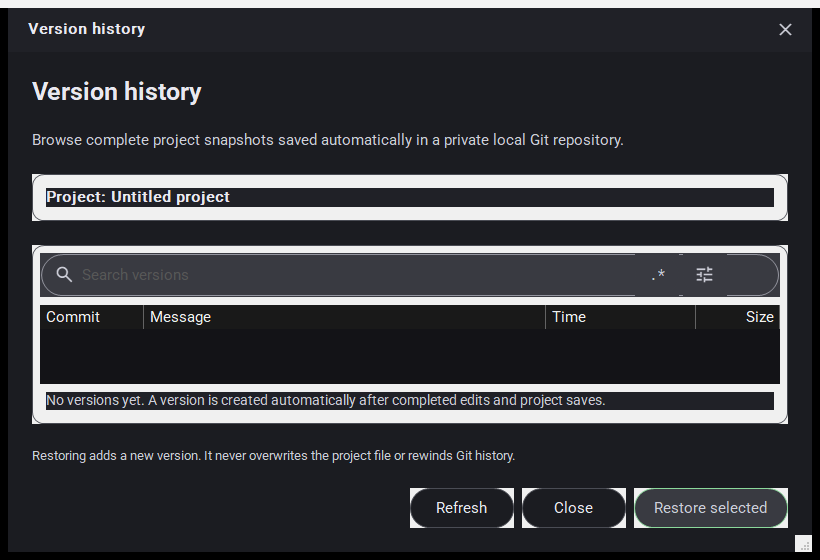
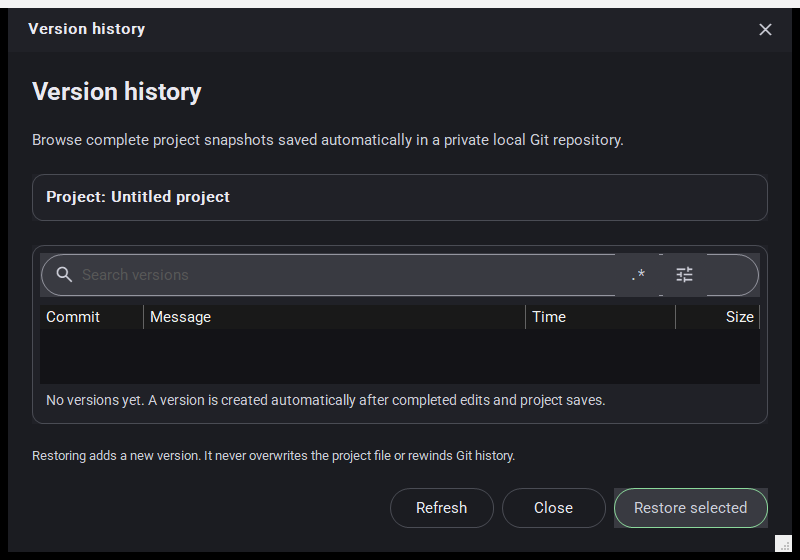
Fix light card plates in dark mode and doubled regex-builder flag labels
Two widget-level defects, both found by pixel-sampling real captures from the
headless harness rather than by reading the code.

1. StaticBox cards rendered a light plate on dark themed surfaces. The labels
   on top were already correct (#202127); the plate under them was #F0F0F0.
   Root cause: StateColor::setColorForStates() only UPDATES a state entry that
   already exists and returns false otherwise, and StaticBox seeds only
   border_color in its constructor. So SetBackgroundColorNormal() was a silent
   no-op on every card that never had an explicit SetBackgroundColor(), and
   doRender() fell through to its count()==0 fallback, filling with the plain
   window colour. That colour is itself stale: Create() seeds it once from the
   parent, which is the light surface for any card built before a theme is
   applied, and the MSW render() path clears its back buffer with it.
   SetBackgroundColorNormal() now inserts the normal-state colour when absent,
   and SyncWindowBackground() keeps the plain window background in step.

2. Every regex-builder flag row drew its text twice: clipped ghost text inside
   the 44px checkbox rect plus the real sibling label. CheckBox is a
   wxBitmapToggleButton, i.e. a native MSW BUTTON, so addFlag()'s SetLabel()
   made Windows paint the window text under the glyph. The text is now carried
   as name + tooltip; the visible label stays the sibling Label.

Both verified live on the rebuilt binary, before/after captures committed.
[…]

diff --git a/src/slic3r/GUI/Widgets/StaticBox.cpp b/src/slic3r/GUI/Widgets/StaticBox.cpp
@@ -216,16 +216,44 @@ void StaticBox::SetBorderColorNormal(wxColor const &color)
     Refresh();
 }
 
+// Keep the plain wxWindow background in step with the themed one. Create()
+// seeds it once from the parent, which is the LIGHT surface for any card built
+// before a theme is applied -- and that stale colour is what actually reaches
+// the screen, because the MSW render() path clears its back buffer with
+// GetBackgroundColour() before doRender() draws, and the erase handler uses it
+// too. Without this sync a themed card shows a light plate in dark mode even
+// though its rounded fill is correct.
+void StaticBox::SyncWindowBackground()
+{
+    if (background_color.count() == 0)
+        return;
+    const wxColour normal = background_color.defaultColor();
+    if (normal.IsOk() && normal != wxWindow::GetBackgroundColour())
+        wxWindow::SetBackgroundColour(normal);
+}
+
 void StaticBox::SetBackgroundColor(StateColor const &color)
 {
     background_color = color;
     state_handler.update_binds();
+    SyncWindowBackground();
     Refresh();
 }
 
 void StaticBox::SetBackgroundColorNormal(wxColor const &color)
 {
-    background_color.setColorForStates(color, 0);
+    // setColorForStates only UPDATES a state entry that already exists -- it
+    // returns false and changes nothing otherwise. A StaticBox starts with an
+    // EMPTY background StateColor (the constructor seeds border_color only), so
+    // for every card that never had an explicit SetBackgroundColor() this call
+    // silently did nothing: doRender then took its `background_color.count()==0`
+    // fallback and filled with the constructor-time window colour, i.e. a light
+    // plate on a dark themed dialog. Insert the normal-state colour instead.
+    if (!background_color.setColorForStates(color, StateColor::Normal)) {
+        background_color = StateColor(color);
+        state_handler.update_binds();
+    }
+    SyncWindowBackground();
     Refresh();
 }
 

diff --git a/src/slic3r/GUI/Widgets/RegexBuilderPopup.cpp b/src/slic3r/GUI/Widgets/RegexBuilderPopup.cpp
@@ -253,8 +253,14 @@ void RegexBuilderPopup::build()
         auto *box = new CheckBox(m_scroll);
         box->SetColorScheme(m_scheme);
         box->SetValue(value);
+        // Name + tooltip carry the text for assistive tech and hover; the
+        // VISIBLE text is the sibling Label below. SetLabel() must not be used
+        // here: CheckBox is a wxBitmapToggleButton, i.e. a native BUTTON, and
+        // MSW paints its window text inside the 44px glyph rect -- which came
+        // out as clipped ghost text ("cx m", "sens") sitting underneath the
+        // real label on every flag row.
         box->SetName(text);
-        box->SetLabel(text);
+        box->SetToolTip(text);
         box->SetMinSize(wxSize(FromDIP(kTargetH), FromDIP(kTargetH)));
         auto *lbl = new Label(m_scroll, Label::Body_13, text);
         lbl->SetBackgroundColour(surface);

diff --git a/src/slic3r/GUI/Widgets/StaticBox.hpp b/src/slic3r/GUI/Widgets/StaticBox.hpp
@@ -46,6 +46,10 @@ public:
 
     void SetBackgroundColor2(StateColor const &color);
 
+    // Re-seed the plain wxWindow background from the themed normal-state colour
+    // (see the definition for why the constructor-time seed goes stale).
+    void SyncWindowBackground();
+
     static wxColor GetParentBackgroundColor(wxWindow * parent);
 
     void ShowBadge(bool show);

diff --git a/docs/features/design-system/themed-surface-colors.md b/docs/features/design-system/themed-surface-colors.md
@@ -1,0 +1,67 @@
+# Themed surface colors on StaticBox cards
+
+How a themed card actually gets its fill, and the two traps that made cards render a **light plate
+in dark mode** even though every colour handed to them was correct.
+
+## Behavior
+
+`StaticBox` (`src/slic3r/GUI/Widgets/StaticBox.cpp`) is the card/plate primitive behind dialogs,
+banners and the custom `Button`. It paints itself in `doRender()` using two `StateColor`s:
+
+- `border_color` — seeded in the constructor with Outline / OutlineVariant.
+- `background_color` — **empty until something sets it.**
+
+A surface applies its theme by calling `SetBackgroundColorNormal(colour)` (typically from an
+`apply_theme()` that also re-seeds child `Label` backgrounds).
+
+## Failure modes
+
+### 1. `setColorForStates()` is an update, not an insert
+
+```cpp
+bool StateColor::setColorForStates(wxColour const &color, int states)
+{
+    for (...) if (statesList_[i] == states) { colors_[i] = color; return true; }
+    return false;   // no entry for this state -> nothing happens
+}
+```
+
+Because `background_color` starts empty, `SetBackgroundColorNormal()` was a **silent no-op on every
+card that never had an explicit `SetBackgroundColor()`**. `doRender()` then took its
+`background_color.count() == 0` fallback and filled with `GetBackgroundColour()` — the plain
+`wxWindow` colour. `SetBackgroundColorNormal()` now inserts the normal-state colour when it is
+absent, and only then falls back to updating in place.
+
+### 2. The plain window background goes stale
+
+`StaticBox::Create()` seeds `wxWindow`'s own background once, from the parent, via
+`GetParentBackgroundColor()`. Any card constructed **before** a theme is applied therefore caches
+the light surface. That colour is not cosmetic: the MSW `render()` path clears its back buffer with
+`GetBackgroundColour()` before `doRender()` draws, and the default erase path uses it too.
+`SyncWindowBackground()` now re-seeds it from the themed normal-state colour on every
+`SetBackgroundColor` / `SetBackgroundColorNormal`.
+
+Both fixes are in the widget, so every themed card in the app is covered — not just the surface
+where the symptom was first reported.
+
+## Security considerations
+
+None; this is a presentation-layer colour path with no I/O, no user data and no configuration.
+
+## Verification
+
+Reproduced and confirmed live on the real built binary through `.claude/skills/run-bambustudio/`
+(headless Mesa llvmpipe + `PrintWindow`), in dark mode, on the Version history dialog:
+
+- **Before** — [`history-dialog-dark--before-card-fix.png`](../../screenshots/version-history/history-dialog-dark--before-card-fix.png):
+  card interiors sample `#F0F0F0` while the labels on top of them correctly sample `#202127`.
+- **After** — [`history-dialog-dark.png`](../../screenshots/version-history/history-dialog-dark.png):
+  card interiors sample `#202127`, matching their labels; all five labels legible.
+
+Pixel sampling (x = 400, info card) is the diagnostic that separates "the label is wrong" from
+"the plate under the label is wrong" — the two look identical in a thumbnail.
+
+> [!NOTE]
+> An earlier diagnosis in `HANDOFF.md` attributed this to `Label` caching its parent background at
+> construction. That is a real trap, and `apply_theme()` does re-seed label backgrounds for it, but
+> it was **not** the cause of this symptom: the labels were already painting correctly.

diff --git a/docs/screenshots/README.md b/docs/screenshots/README.md
@@ -212,9 +212,11 @@ Page shots are `<page>.png`; button close-ups are `<page>--<button>.png` (or ded
 - [`tab-bar-two-tabs.png`](project-tabs/tab-bar-two-tabs.png)
 - [`tab-bar.png`](project-tabs/tab-bar.png)
 
-## regex-builder (29 captures)
+## regex-builder (31 captures)
 
 - [`builder-popover--case-sensitive.png`](regex-builder/builder-popover--case-sensitive.png)
+- [`builder-popover--flags-before-fix.png`](regex-builder/builder-popover--flags-before-fix.png)
+- [`builder-popover--flags.png`](regex-builder/builder-popover--flags.png)
 - [`builder-popover--insert-header.png`](regex-builder/builder-popover--insert-header.png)
 - [`builder-popover--pattern-editor.png`](regex-builder/builder-popover--pattern-editor.png)
 - [`builder-popover--quantifiers.png`](regex-builder/builder-popover--quantifiers.png)
@@ -248,9 +250,11 @@ Page shots are `<page>.png`; button close-ups are `<page>--<button>.png` (or ded
 
 - [`dialog.png`](smart-home/dialog.png)
 
-## version-history (9 captures)
+## version-history (11 captures)
 
 - [`history-dialog--close.png`](version-history/history-dialog--close.png)
+- [`history-dialog-dark--before-card-fix.png`](version-history/history-dialog-dark--before-card-fix.png)
+- [`history-dialog-dark.png`](version-history/history-dialog-dark.png)
 - [`history-dialog--project-banner.png`](version-history/history-dialog--project-banner.png)
 - [`history-dialog--refresh.png`](version-history/history-dialog--refresh.png)
 - [`history-dialog--restore-selected.png`](version-history/history-dialog--restore-selected.png)

diff --git a/docs/features/design-system/README.md b/docs/features/design-system/README.md
@@ -10,6 +10,10 @@ Design 3 design system.
   register and wave plan driving the structural-anatomy migration. The register itself carries the
   live done / deviation / open counts; consult it rather than any snapshot elsewhere.
 
+- [Themed surface colors on StaticBox cards](themed-surface-colors.md) — how a card gets its fill,
+  why `SetBackgroundColorNormal()` could silently do nothing, and the stale constructor-time window
+  background behind light plates in dark mode.
+
 ## Design source
 
 The canonical in-repo design source is [`ui-md3/design-system/`](../../../ui-md3/design-system/).
